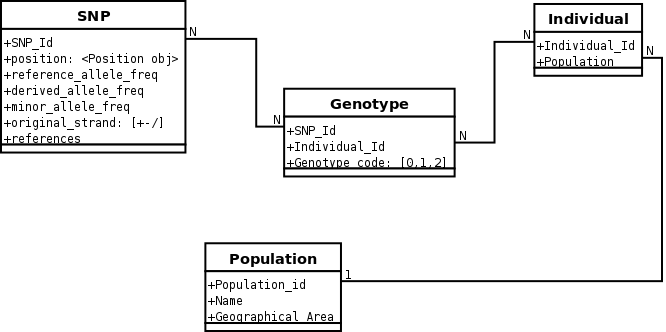
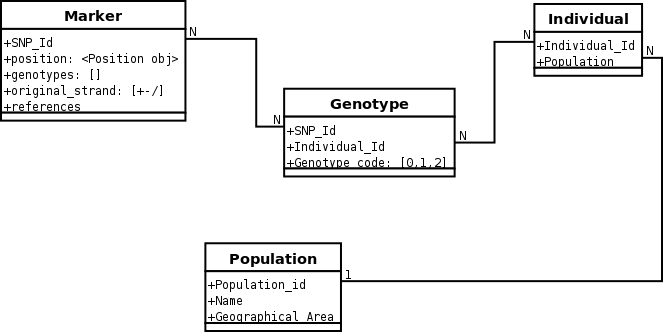
added 'genotypes' attribute to Marker, replacing {reference derived minor}_allele_freq

Changed region(s): [[0.0, 0.2108, 0.3003, 0.4819], [0.0901, 0.0301, 0.1802, 0.0602]]

diff --git a/src/PopGen/Gio/Tped/__init__.py b/src/PopGen/Gio/Tped/__init__.py
@@ -31,7 +31,7 @@ def TpedIterator(handle):
     >>> import tempfile
     >>> sample_Tped_file = tempfile.TemporaryFile()
     >>> sample_Tped_file.write('''
-    ... # Chromosome SNP_Id ??? position locus1_allele1 locus1_allele2 locus2_allele1
+    ... # Chromosome Marker_Id ??? position locus1_allele1 locus1_allele2 locus2_allele1
     ... 4 rs10000543 0 30979886 C C T C C C C C C C C C T C C C C C C C C C T C C C 
     ... 4 rs10000929 0 131516474 A A A A G A G A A A G A G A G A A A G A G A G A G G 
     ... 4 rs10002472 0 159087423 A G G G G G A A G G G G A G G G A G A G G G G G G G''')
@@ -48,14 +48,19 @@ def TpedIterator(handle):
             comment = line
             
     while True:
-        tped_line = line.split()
-        chromosome = tped_line[0]
-        marker_name = tped_line[1]
-        unknown = tped_line[2]
-        position = tped_line[3]
+        tped_fields = line.split()
+        chromosome = tped_fields[0]
+        marker_name = tped_fields[1]
+        unknown = tped_fields[2]
+        position = tped_fields[3]
         current_marker = Marker(marker_name)
         current_marker.position = "%s - chrom %s" % (position, chromosome)
         logging.debug(current_marker)
+        
+        genotypes = [(tped_fields[i], tped_fields[i+2]) for i in xrange(4, len(tped_fields), 2)]
+        logging.debug(genotypes)
+        
+        
         yield current_marker
             
 def _test():

diff --git a/src/PopGen/Gio/Marker.py b/src/PopGen/Gio/Marker.py
@@ -11,6 +11,8 @@ class Marker(object):
     # Note: would it be better to use 'Marker' or 'Locus'?
     
     >>> C10G = Marker('A130G')
+    >>> C10G.genotypes = [('A', 'A'), ('G', 'A')])
+    >>> C10G.genotypes.append(('A', 'A'))
 
     '''      
           
@@ -20,9 +22,7 @@ class Marker(object):
             name = 'Un-named Marker'
         self.name = name
         self.position = ""  # should be a 'position' object. For now, just a description (e.g. chromosome 11 pos 23131)
-        self.reference_allele_freq = 0.0
-        self.derived_allele_freq = 0.0
-        self.minor_allele_freq = 0.0
+        self.genotypes = [] # list of genotypes object (e.g.: [('A', 'A'), ('G', 'A')])
         self.original_strand = ''    # should be '+' or '-'
         self.references = ''         # gene name, associated diseases, etc..
         
